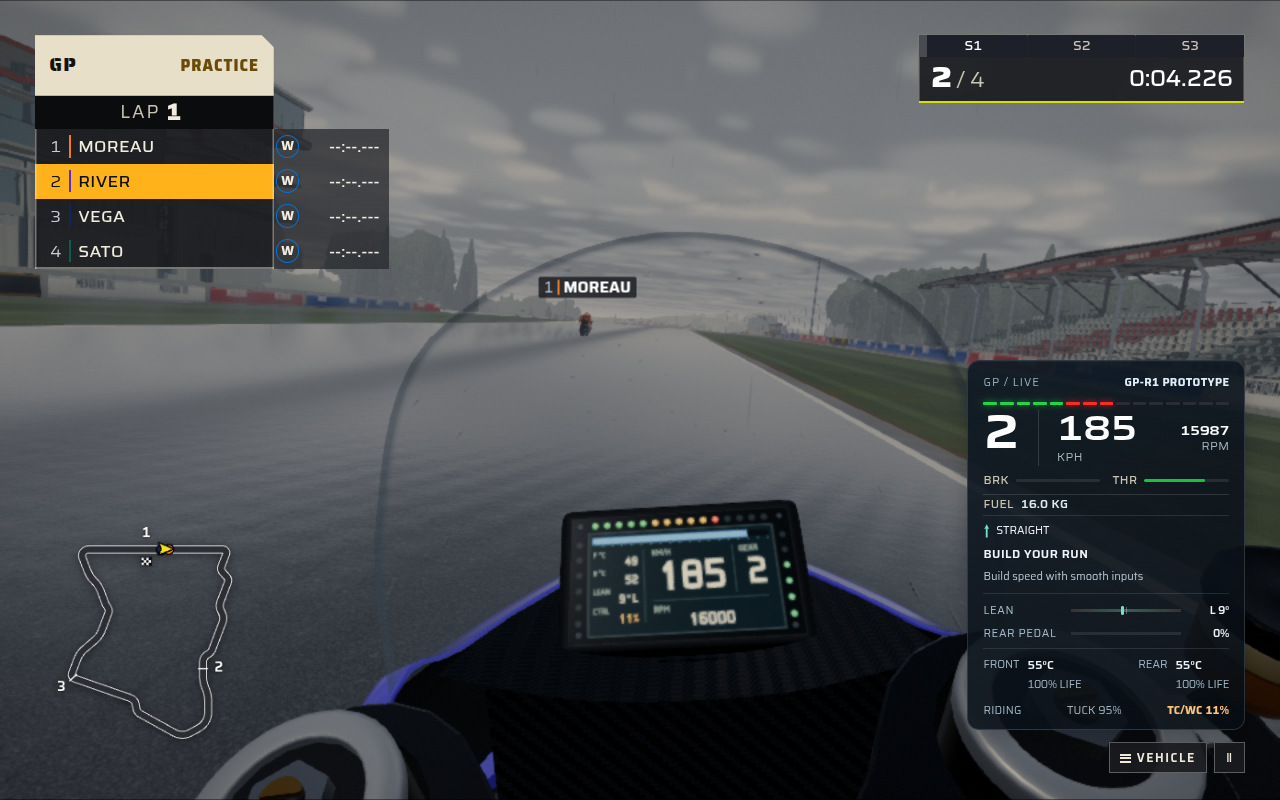
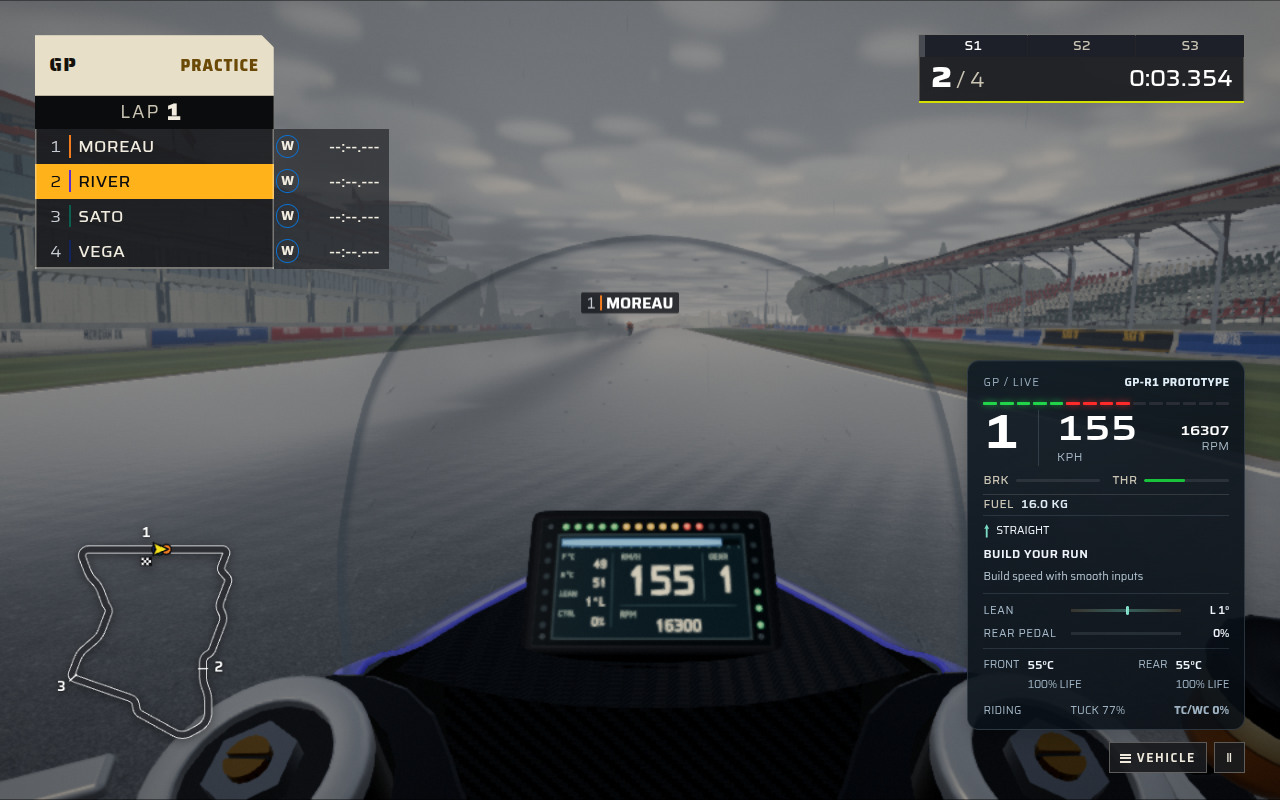
Publish full-HD GP corner, measured rider silhouettes and verified wet full-field replay

diff --git a/docs/production/motogp-circuit-race-review/README.md b/docs/production/motogp-circuit-race-review/README.md
@@ -6,7 +6,7 @@ The GP-R1 enters a bend at Haarveld at 122 km/h and 22.3° of lean. The steering
 
 ![Two-second in-engine sequence of the GP field leaning through a bend at Poggio Alto](poggio-corner-motion.webp)
 
-The trackside camera follows four AI riders through the bend at Poggio Alto. Lean on the followed bike increases from 21.8° to 32.5°. The 640 × 360 sequence contains 48 distinct renders at 24 fps. Every frame advances five physics ticks. [Full-size still](poggio-corner.jpg) · [Frame telemetry](poggio-corner-telemetry.json)
+The trackside camera follows four AI riders through the bend at Poggio Alto. Lean on the followed bike increases from 21.8° to 32.5°. The 640 × 360 sequence contains 48 distinct renders at 24 fps. Every frame advances five physics ticks. [1920 × 1080 race still](poggio-corner.jpg) · [Frame telemetry](poggio-corner-telemetry.json)
 
 | Poggio Alto, dry start | Cape Wrenna, wet start |
 | --- | --- |
@@ -36,7 +36,7 @@ Six GP-R1 and six GP-R2 machines are accelerating at 21–32 km/h. At this 1024 
 | Submitted triangles across all passes | 7,272,029 | 5,798,260 |
 | Shadow triangles | 2,655,278 | 1,942,876 |
 
-The 351 × 124 crop enclosing all twelve riders differed by an average of 0.94 per 8-bit colour channel. All twelve positions, speeds and lean angles matched exactly between runs. [Earlier frame](poggio-full-grid-before.jpg) · [Per-rider telemetry and image measurements](poggio-full-grid-telemetry.json)
+The 351 × 124 crop enclosing all twelve riders differed by an average of 0.94 per 8-bit colour channel. Distance along the circuit, speed and lean angle matched exactly for every rider in both runs. With both fields rendered as opaque silhouettes from the same lens, 99.0% of the covered pixels were shared. The chassis, front and rear axles and helmet kept the same world positions to within 0.001 mm when the models switched. In the overlay, white pixels belong to both meshes, red to the earlier field and green to the revised field. [Silhouette overlay](poggio-full-grid-silhouette.png) · [Earlier frame](poggio-full-grid-before.jpg) · [Per-rider telemetry and image measurements](poggio-full-grid-telemetry.json)
 
 ## Montejaral after dark
 
@@ -59,7 +59,7 @@ The GP-R1 is travelling at 161 km/h in both shots, 12.5 seconds into the same dr
 
 These close-ups use the game meshes under controlled lighting. The brake pose sets the same inputs as the riding renderer. The dashboard capture shows 15,200 RPM. The temperature, lean, speed and gear channels use the live instrument code. A held or rewound frame restores the instrument, rider gaze, leather folds and optical state.
 
-Behind the tinted visor, the brow and temple pads shade the rider’s skin. The wet surface of the eye reflects the lamps at the circuit. On the same iris, moving a test lamp from left to right moved the brightest part of the reflection by 74 pixels in an 86-pixel-wide sample. Turning off all light reduced the brightest sample from the former 32/255 to black. The helmet, lens and padding rendered identically with the face hidden.
+Behind the tinted visor, the brow and temple pads shade the rider’s skin. The wet surface of the eye reflects the lamps at the circuit. In an 86-pixel-wide crop of one eye, moving the test lamp from left to right shifted the centre of the brightest pixels by 74 pixels. Turning off all light reduced the brightest sample from the former 32/255 to black. The helmet, lens and padding rendered identically with the face hidden.
 
 ## Spectators and wind
 
@@ -73,11 +73,11 @@ This controlled trackside view uses Cape Wrenna’s surveyed bank, standing race
 
 ## Practice through the game menus
 
-| Poggio Alto, chase view at 190 km/h | Wet cockpit at 185 km/h |
+| Poggio Alto, chase view at 196 km/h | Wet cockpit at 155 km/h |
 | --- | --- |
-| ![Poggio Alto practice through the production HUD with three opponents and a moving chase camera](practice-dry-chase.jpg) | ![The live wet cockpit and race HUD both report 185 kilometres per hour](practice-wet-cockpit.jpg) |
+| ![Poggio Alto practice through the production HUD with three opponents and a moving chase camera](practice-dry-chase.jpg) | ![The live wet cockpit and race HUD both report 155 kilometres per hour](practice-wet-cockpit.jpg) |
 
-These 1280 × 800 screenshots came from the production build’s dry and wet practice tests. Both tests entered through the menus and used the Low preset. The wet practice test enabled full spray density. The dry run also switched to the cockpit, paused and opened the recorded replay. [Hosted test run and original attachments](https://github.com/cheshmakzanoon-ops/Experiment-3/actions/runs/45096209309)
+These 1280 × 800 screenshots came from the production build’s dry and wet practice tests. Both tests entered through the menus and used the Low preset. The wet practice test enabled full spray density. The dry run also switched to the cockpit, paused and opened the recorded replay. [Hosted test run and original attachments](https://github.com/cheshmakzanoon-ops/Experiment-3/actions/runs/45104672026)
 
 ## Measurements
 
@@ -88,7 +88,10 @@ These 1280 × 800 screenshots came from the production build’s dry and wet pra
 | Distant spectators against the 3D crowd, same camera | Standing silhouette agreement rose from 28.9% to 86.0%. Rear seated agreement was 75.5%. Each distant spectator uses two triangles. |
 | Dry road shimmer, controlled foreground and sky | Shimmer changed 5,071 pixels. All 12,160 sampled foreground pixels and the sky stayed fixed. The rain control produced zero changed pixels. |
 | Montejaral night camera, same 27 × 27 pixel region above the GP-R1 rear tyre | The number of bright pixels fell from 37 to 2 (mean 8-bit RGB above 155). In the separate HDR light test, the revised filter retained 89% of the halo around a 16-pixel-wide floodlight while reducing halo energy around a single-pixel glint by 90%. |
+| Twelve riders, two wet laps of Cape Wrenna, fixed 120 Hz | All twelve riders finished without a fall in each run. The combined race and track-surface digest matched after 63,484 steps. [Results for every entrant](cape-full-field-replay.json) |
 | Eight riders, two wet laps of Poggio Alto, fixed 120 Hz | Both runs classified all eight riders with zero falls and the same replay digest after 70,897 steps. |
+
+The revised twelve-rider grid, the Full HD corner and the menu-driven practices share one gameplay revision. The tower and pavilion pairs preserve the original captures from those stages of development. [Gameplay commit](https://github.com/cheshmakzanoon-ops/Experiment-3/commit/d02273c9fe8a25ce55c9baa6b45734befce3fee9)
 
 The geometry measurements count submitted primitives across separately recorded passes. The High race frames and controlled model views used Chromium with SwiftShader. The menu-driven practice frames used Chromium with Mesa llvmpipe. Physical-GPU frame times and console image-quality parity require hardware measurement.
 
